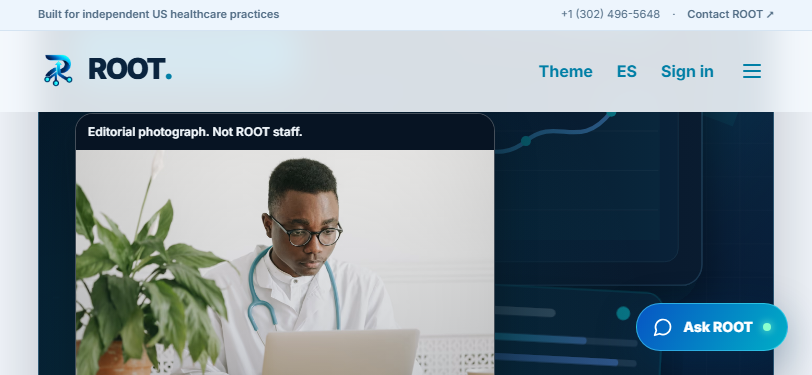
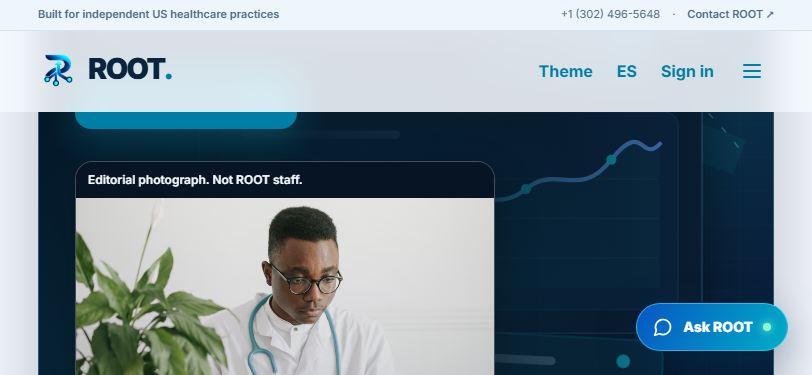
fix(ui): keep the short-landscape caption inside the page scrollport
Clip the hero without creating a nested scroll container, and sample an on-screen caption point so the Ask ROOT hit test matches the rendered text.

diff --git a/tests/e2e/editorial-caption.spec.ts b/tests/e2e/editorial-caption.spec.ts
@@ -9,7 +9,7 @@ async function visibleCaption(page: Page) {
 async function expectCaptionReadable(page: Page, text: string) {
   const caption = await visibleCaption(page);
   await expect(caption).toHaveText(text);
-  await caption.evaluate((element) => element.scrollIntoView({ block: 'end', inline: 'nearest' }));
+  await caption.scrollIntoViewIfNeeded();
   const overlap = await page.evaluate(() => {
     const captionEl = [...document.querySelectorAll('[data-testid="root-editorial-caption"]')].find((element) => {
       const rect = element.getBoundingClientRect();
@@ -30,14 +30,27 @@ async function expectCaptionReadable(page: Page, text: string) {
     });
   });
   expect(overlap).toBe(false);
-  const hitsCaption = await caption.evaluate((element) => {
+  const hit = await caption.evaluate((element) => {
     const range = document.createRange();
     range.selectNodeContents(element);
-    const rect = range.getBoundingClientRect();
-    const target = document.elementFromPoint(rect.left + Math.min(12, rect.width / 2), rect.top + rect.height / 2);
-    return Boolean(target && element.contains(target));
+    const rects = [...range.getClientRects()].filter((rect) => rect.width > 0 && rect.height > 0);
+    const checks = rects.map((rect) => {
+      const x = rect.left + Math.min(8, rect.width / 2);
+      const y = rect.top + rect.height / 2;
+      const inside =
+        x >= 0 && y >= 0 && x <= window.innerWidth && y <= window.innerHeight;
+      const target = inside ? document.elementFromPoint(x, y) : null;
+      return {
+        inside,
+        ok: Boolean(target && element.contains(target)),
+        target: target
+          ? `${target.tagName.toLowerCase()} ${target.getAttribute('data-testid') ?? ''}`.trim()
+          : 'none',
+      };
+    });
+    return { ok: checks.some((check) => check.ok), checks };
   });
-  expect(hitsCaption).toBe(true);
+  expect(hit.ok, JSON.stringify(hit.checks)).toBe(true);
 }
 
 async function expectLauncherUsable(page: Page) {
@@ -72,6 +85,7 @@ test('Spanish and English captions stay clear of Ask ROOT at 375 and in short la
   await expectCaptionReadable(page, 'Editorial photograph. Not ROOT staff.');
 
   await page.setViewportSize({ width: 812, height: 375 });
+  await expect(page.locator('[data-node-id="4:153"]')).toBeVisible();
   await expectCaptionReadable(page, 'Editorial photograph. Not ROOT staff.');
   await expectLauncherUsable(page);
   await page.getByRole('link', { name: 'Switch language' }).click();

diff --git a/src/components/site/page-hero.tsx b/src/components/site/page-hero.tsx
@@ -80,7 +80,7 @@ export function PageHero({
 
   return (
     <section
-      className="root-visual-hero group relative isolate mt-5 min-h-[480px] overflow-hidden rounded-[26px] border border-[#2e5773] bg-[#071b32] px-6 py-9 text-white shadow-[0_28px_80px_rgba(3,14,29,0.25)] sm:px-9 sm:py-12 lg:min-h-[540px] lg:px-14 lg:py-16"
+      className="root-visual-hero group relative isolate mt-5 min-h-0 overflow-clip rounded-[26px] border border-[#2e5773] bg-[#071b32] px-6 py-9 text-white shadow-[0_28px_80px_rgba(3,14,29,0.25)] sm:px-9 sm:py-12 lg:min-h-[540px] lg:px-14 lg:py-16"
       data-node-id={nodeId}
       data-testid="root-visual-hero"
     >
@@ -133,11 +133,11 @@ export function PageHero({
         </div>
         {editorial ? (
           <figure
-            className="flex w-full max-w-[420px] flex-col overflow-hidden rounded-[18px] border border-white/25 bg-[#071423] shadow-[0_16px_40px_rgba(0,0,0,0.28)] lg:max-w-none lg:justify-self-end"
+            className="flex w-full max-w-[420px] flex-col overflow-clip rounded-[18px] border border-white/25 bg-[#071423] shadow-[0_16px_40px_rgba(0,0,0,0.28)] lg:max-w-none lg:justify-self-end"
             data-testid="root-editorial-photo"
           >
             <figcaption
-              className="bg-[#071423] px-3 py-2.5 text-[12px] font-semibold leading-snug text-[#f5fbff] max-lg:scroll-mb-28 lg:order-last"
+              className="scroll-mt-24 bg-[#071423] px-3 py-2.5 text-[12px] font-semibold leading-snug text-[#f5fbff] max-lg:scroll-mb-28 lg:order-last"
               data-testid="root-editorial-caption"
             >
               {editorial.caption[locale]}
